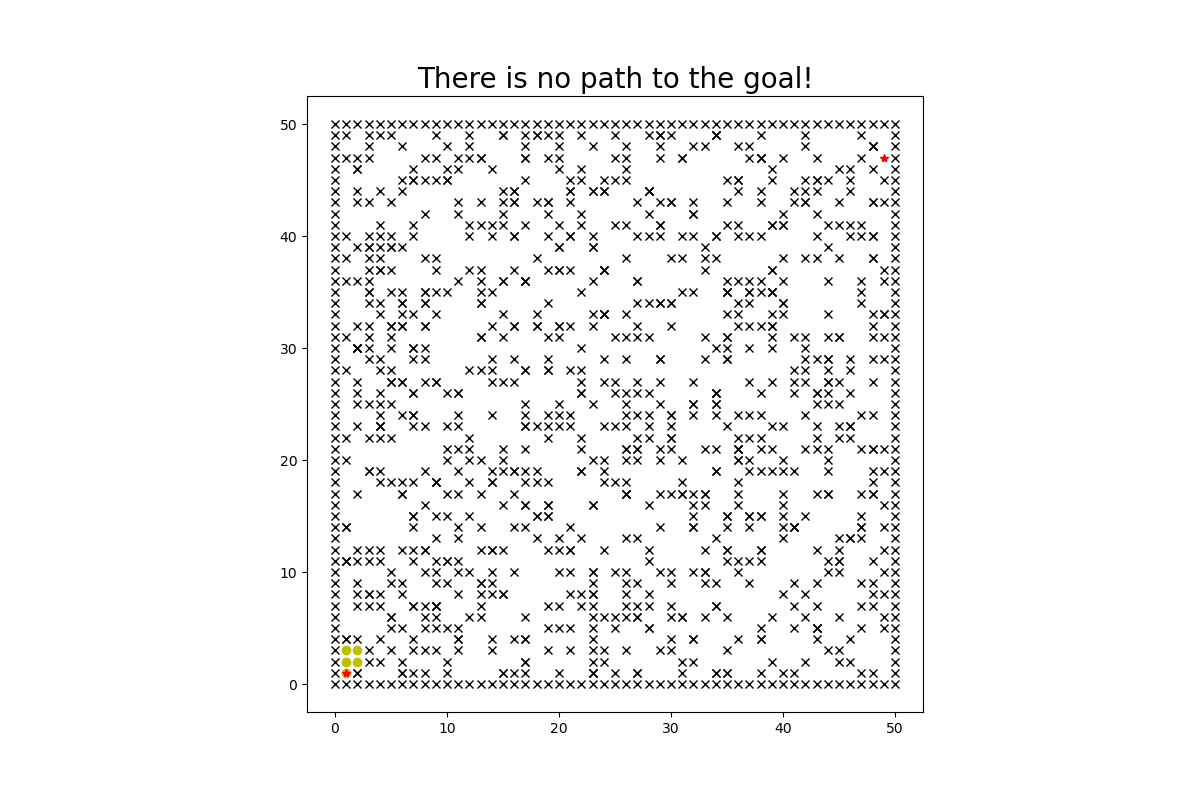
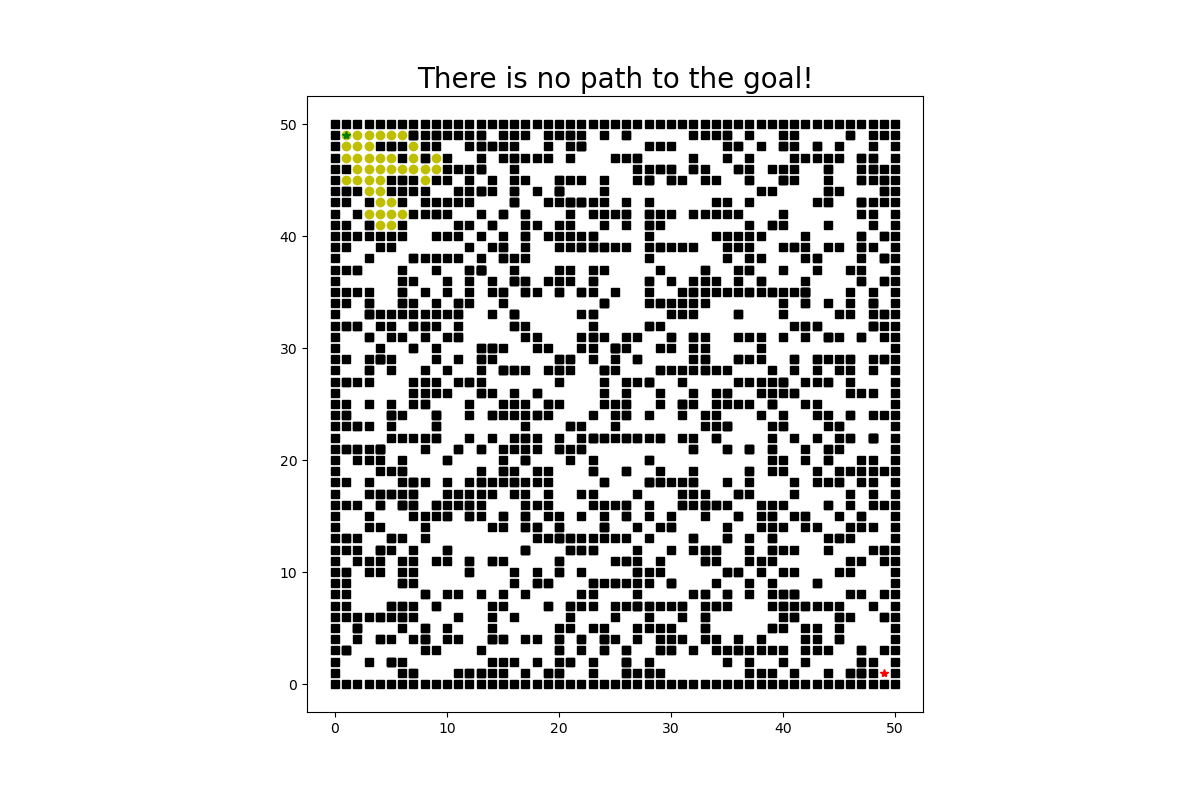
obstacle notation changed

Changed region(s): [[0.2775, 0.125, 0.7708, 0.875]]

diff --git a/A_Star_Algorithm/Python/A_Star.py b/A_Star_Algorithm/Python/A_Star.py
@@ -132,8 +132,8 @@ if __name__ == '__main__':
     '''主程序开始'''
     top_conner = [50, 50]  # 边界上顶点-位置在右上
     bottom_conner = [0, 0]  # 边界下顶点-位置在左下
-    S = [1, 1]  # 起始点
-    E = [49, 49]  # 目标点
+    S = [1, 49]  # 起始点
+    E = [49, 1]  # 目标点
     obstacle_number = 600  # 生成的障碍物坐标数目，越大寻踪难度越大，耗时越久
     obstacle = generate_boundary(S, E, top_conner, bottom_conner, obstacle_number)  # 生成障碍与边界
     OP = []  # 节点的open list
@@ -196,7 +196,7 @@ if __name__ == '__main__':
                     fig = plt.gcf()
                     fig.set_size_inches(12, 8, forward=True)
                     plt.axis('square')
-                    plt.plot(obstacle[:, 0], obstacle[:, 1], 'xk')
+                    plt.plot(obstacle[:, 0], obstacle[:, 1], 'sk')
                     plt.plot(checked[:, 0], checked[:, 1], 'oy')
                     plt.plot(S[0], S[1], '*g')
                     plt.plot(E[0], E[1], '*r')
